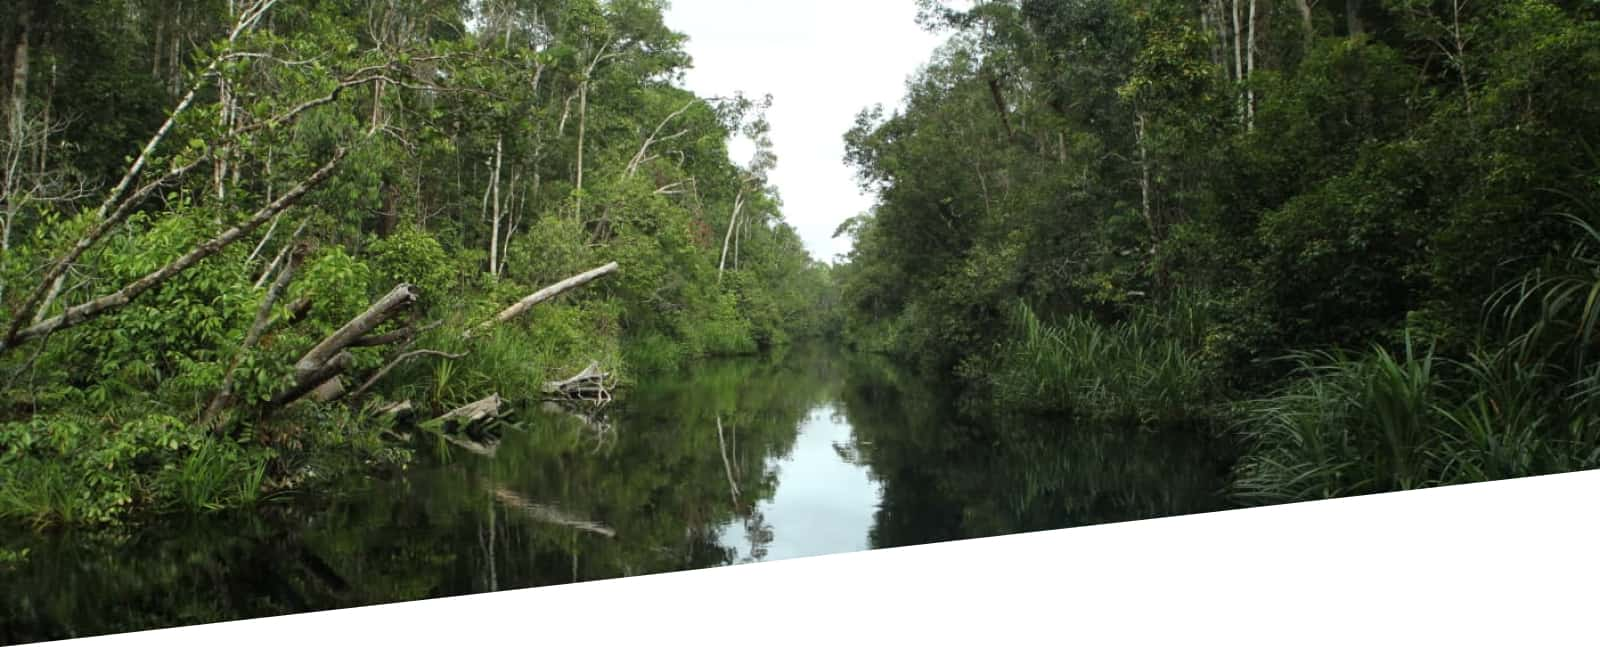
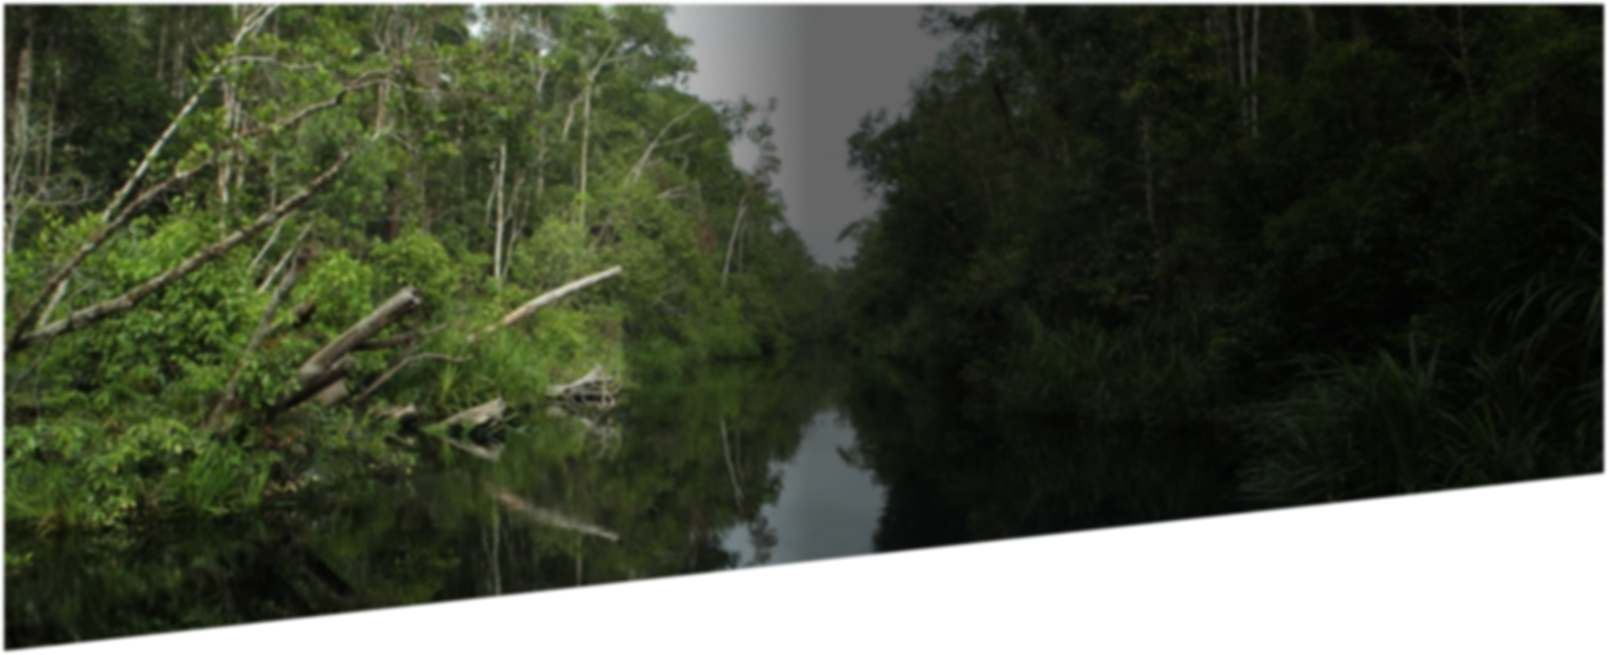
feat: update homePage hero-section

diff --git a/src/css/homePage.css b/src/css/homePage.css
@@ -1,30 +1,61 @@
 @import url('./root.css');
 @import url('./hp-galleryGrid.css');
 /* //// Hero Section //// */
+#sec-hero,
+#sec-hero .hero {
+	position: relative;
+}
 #sec-hero .container {
 	height: 50rem;
 	display: flex;
+	/* flex-direction: column; */
 	justify-content: end;
 	align-items: center;
 }
 h1,
+h1 span,
+h2,
+h2 span {
+	color: var(--white);
+}
+h1,
 h1 span {
 	font-size: 7.2rem;
-	color: var(--white);
 	letter-spacing: 0.2rem;
 }
-h1 {
+h1,
+#sec-hero h2 {
 	font-weight: 300;
 }
-h1 span {
+h1 span,
+#sec-hero h2 span {
 	font-weight: 700;
+}
+#sec-hero h2 {
+	position: absolute;
+	display: inline-block;
+	width: 55.3rem;
+	font-size: 3rem;
+	margin-top: 6rem;
+	letter-spacing: 2.7px;
+	z-index: 10;
+}
+.black-line {
+	position: absolute;
+	right: 0;
+	bottom: -19rem;
+	display: block;
+	width: 160rem;
+	height: 38rem;
+	background-color: var(--primary);
+	z-index: 5;
+	clip-path: polygon(0 18rem, 160rem 0, 160rem 20rem, 0 38rem);
 }
 /* //// About Section //// */
 #sec-about {
 	padding-top: 22rem;
 	margin-top: -22rem;
 	height: 150rem;
-	clip-path: polygon(0% 18rem, 100% 0%, 100% 82%, 0 100%);
 	background-image: linear-gradient(
 		174deg,
 		var(--primary),
@@ -32,21 +63,21 @@ h1 span {
 		transparent 34%
 	);
 }
-/* 
+
 #sec-about .border {
-  display: flex;
+	display: flex;
 	justify-content: end;
 	height: 120rem;
 	clip-path: polygon(0% 9rem, 100% 0%, 100% 91%, 0 100%);
 }
 
 #sec-about img {
-  background-position: center;
+	background-position: center;
 	clip-path: polygon(0% 9rem, 100% 0%, 100% 91%, 0 100%);
 	-webkit-filter: blur(8px);
 	filter: blur(8px);
-} 
-*/
+}
+
 /* //// Benefits Section //// */
 #sec-benefits .text-block {
 	display: flex;

diff --git a/html/homePage/index.html b/html/homePage/index.html
@@ -30,13 +30,17 @@
 		<main>
 			<section id="sec-hero">
 				<div class="container">
-					<h1>
-						<span>Discover</span><br> the 
-						<span>Wonders</span> of <br> 
-						<span>Borneo</span> by 
-						<span>Boat</span>
-					</h1>
+					<div class="hero">
+						<h1>
+							<span>Discover</span><br> the 
+							<span>Wonders</span> of <br> 
+							<span>Borneo</span> by 
+							<span>Boat</span>
+						</h1>
+						<h2><span>Explore</span> the diverse and <span>rich wildlife</span> of <span>Borneo</span>, one of the world’s largest islands. You’ll see not only <span>orangutans</span>, but also proboscis monkeys, crocodiles, hornbills, and more</h2>
+					</div>
 				</div>
+				<div class="black-line"></div>
 			</section>
 			<section id="sec-about">
 				<div class="border">

diff --git a/src/css/general.css b/src/css/general.css
@@ -23,7 +23,7 @@ section,
 }
 
 .container {
-	width: var(--sizeL);
+	max-width: var(--sizeL);
 }
 /* //// Navigation //// */
 nav,
@@ -75,8 +75,6 @@ nav a {
 	height: 64.5rem;
 	background-image: url(../img/backgroundImg/hero-1.jpg);
 	background-position: center;
-	clip-path: polygon(0% 0%, 100% 0%, 100% 72%, 0 100%);
-	box-shadow: inset -70rem -8rem 8rem 8rem var(--primaryShadow);
 }
 /* //// Footer //// */
 footer {

diff --git a/src/css/reset.css b/src/css/reset.css
@@ -9,3 +9,8 @@ html {
 	font-size: 62.5%;
 	box-sizing: border-box;
 }
+
+/* html,
+body {
+	overflow-x: hidden;
+} */
